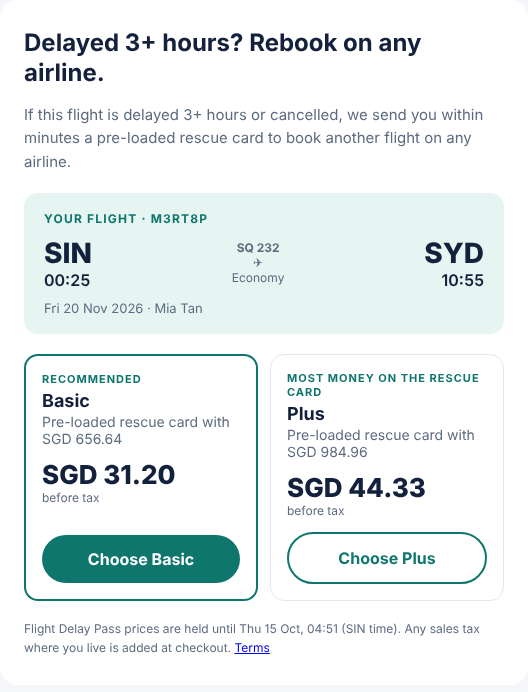
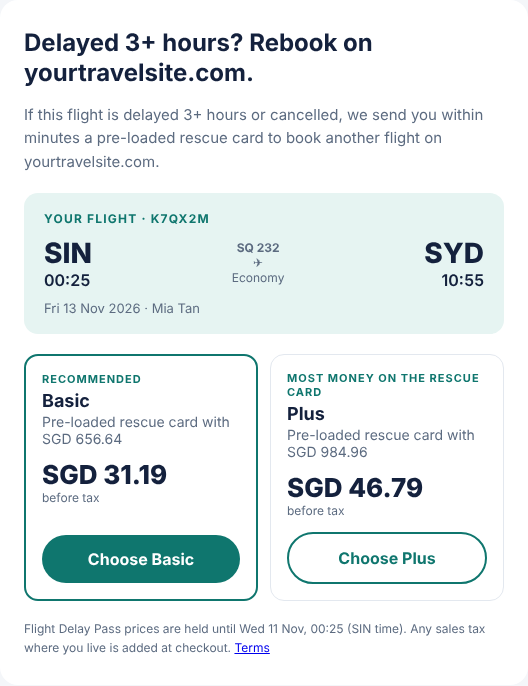
Travel site page: rescue cards work on the travel site only, and the same optional push notifications
Claude-Session: https://claude.ai/code/session_018Yozk79M8axVzfWLgUCQLn

diff --git a/travel-sites.html b/travel-sites.html
@@ -53,8 +53,8 @@
         <p class="cm-ok">✓ Booking confirmed · K7QX2M</p>
         <div class="cm-flight"><b>SIN → SYD</b><span>SQ 232 · Fri 20 Nov · 00:25 · Mia Tan</span></div>
         <div class="cm-offer">
-          <p class="cm-title">Delayed 3+ hours? Rebook on any airline.</p>
-          <p class="cm-sub">Flight Delay Pass: if this flight is delayed 3+ hours or cancelled, you get a pre-loaded rescue card within minutes.</p>
+          <p class="cm-title">Delayed 3+ hours? Rebook with us.</p>
+          <p class="cm-sub">Flight Delay Pass: if this flight is delayed 3+ hours or cancelled, you get a pre-loaded rescue card within minutes to book a new flight here.</p>
           <div class="cm-plans">
             <div class="cm-plan on"><b>Basic</b><span>Rescue card with S$657</span><i>S$31.20</i></div>
             <div class="cm-plan"><b>Plus</b><span>Rescue card with S$985</span><i>S$44.33</i></div>
@@ -109,10 +109,10 @@
       <div class="tile"><span class="time">YOUR SITE</span><h3>1. Booking confirmed</h3><p class="muted">Your confirmation page shows the Flight Delay Pass plans for the flights just booked, priced flight by flight, in your colours.</p></div>
       <div class="tile"><span class="time">YOUR SITE</span><h3>2. One tap to choose</h3><p class="muted">The customer picks Basic or Plus. Their checkout opens already filled in with the details you hold: name, date of birth, address and mobile.</p></div>
       <div class="tile"><span class="time">CHECKOUT</span><h3>3. Pass bought</h3><p class="muted">They check their details, agree to the terms and pay the Underwriter about 7.5% of the fare. You earn your share. GetThere emails the confirmation.</p></div>
-      <div class="tile"><span class="time" style="background:#b91c1c">TRAVEL DAY</span><h3>4. Delay hits</h3><p class="muted">The flight is 3+ hours late or cancelled. Within minutes the customer gets a pre-loaded rescue card, funded by the Underwriter, to book a new flight on any airline, or back on your site.</p></div>
+      <div class="tile"><span class="time" style="background:#b91c1c">TRAVEL DAY</span><h3>4. Delay hits</h3><p class="muted">The flight is 3+ hours late or cancelled. Within minutes the customer gets a pre-loaded rescue card, funded by the Underwriter, to book a new flight on your site.</p></div>
     </div>
     <div class="grid2 screens">
-      <figure class="shot"><img src="images/ota-plans.png" alt="The plans page with Basic and Plus, each with its fee and rescue card limit" loading="lazy"><figcaption><b>The plans</b> on your confirmation page, in your colours</figcaption></figure>
+      <figure class="shot"><img src="images/ota-plans.png?v=2" alt="The plans page with Basic and Plus, each with its fee and rescue card limit" loading="lazy"><figcaption><b>The plans</b> on your confirmation page, in your colours</figcaption></figure>
       <figure class="shot"><img src="images/ota-checkout-filled.png" alt="Checkout page with the customer's name, date of birth, address and WhatsApp number already filled in" loading="lazy"><figcaption><b>The checkout</b>, already filled in with what you know</figcaption></figure>
     </div>
   </div>
@@ -125,7 +125,7 @@
     <div class="grid2" style="margin-top:28px">
       <div class="tile">
         <h3>Airline rebooking</h3>
-        <p class="muted">The airline moves your customer to its own next free seat, often hours later or the next day, after a queue or a wait on the phone. With the pass, the Underwriter puts money for a new flight in their hands within minutes of a 3-hour delay, to spend on any airline.</p>
+        <p class="muted">The airline moves your customer to its own next free seat, often hours later or the next day, after a queue or a wait on the phone. With the pass, the Underwriter puts money for a new flight in their hands within minutes of a 3-hour delay, to spend on your site, on any airline you sell.</p>
       </div>
       <div class="tile">
         <h3>Claims after the trip</h3>
@@ -141,8 +141,8 @@
     <h2>11 minutes from the delay to a new booking</h2>
     <div class="phones three">
       <figure><img src="images/airport-0741.webp?v=2" alt="Lock screen at 07:41: WhatsApp message with the delay and the pre-loaded rescue card" loading="lazy"><figcaption><span class="time late">07:41</span><b>The delay hits</b>A WhatsApp message is the first thing she sees, with her pre-loaded rescue card. The same rescue card comes by email too.</figcaption></figure>
-      <figure><img src="images/airport-0744.webp" alt="Pre-loaded rescue card page with A$2,325 to spend" loading="lazy"><figcaption><span class="time">07:44</span><b>Her rescue card is ready</b>$2,325 to spend once, on flights, on any airline or travel site, including yours.</figcaption></figure>
-      <figure><img src="images/airport-0752.webp?v=3" alt="Lock screen at 07:52: email saying the new flight is booked" loading="lazy"><figcaption><span class="time">07:52</span><b>She rebooks herself</b>No waiting for the airline to re-accommodate her: she picks the flight that suits her.</figcaption></figure>
+      <figure><img src="images/airport-0744.webp" alt="Pre-loaded rescue card page with A$2,325 to spend" loading="lazy"><figcaption><span class="time">07:44</span><b>Her rescue card is ready</b>$2,325 to spend once, on flights, on your site.</figcaption></figure>
+      <figure><img src="images/airport-0752.webp?v=3" alt="Lock screen at 07:52: email saying the new flight is booked" loading="lazy"><figcaption><span class="time">07:52</span><b>She rebooks with you</b>No waiting for the airline to re-accommodate her: she picks the flight that suits her, on your site.</figcaption></figure>
     </div>
   </div>
 </section>
@@ -154,7 +154,7 @@
     <div class="grid3" style="margin-top:28px">
       <div class="tile"><h3>Revenue on every booking, at no cost</h3><p class="muted">A share of every pass, agreed with the Underwriter and paid monthly. Nothing to fund, nothing to run.</p></div>
       <div class="tile"><h3>Fewer disruption calls</h3><p class="muted">When a flight is delayed, your customer already has money to rebook, sent by WhatsApp and email within minutes. GetThere answers their questions about the pass.</p></div>
-      <div class="tile"><h3>Rebookings back on your site</h3><p class="muted">The rescue card works at any airline and travel site, so the new flight can be booked with you again.</p></div>
+      <div class="tile"><h3>Every rebooking comes back to you</h3><p class="muted">The rescue card works on your site only, so the new flight is booked with you, on any airline you sell.</p></div>
       <div class="tile"><h3>A reason to book with you</h3><p class="muted">A rescue within minutes of the delay, offered on your confirmation page and carrying your name.</p></div>
       <div class="tile"><h3>Nothing to type twice</h3><p class="muted">The checkout arrives filled in with what you already know, so buying takes a moment.</p></div>
       <div class="tile dark"><div class="big light">$7.5M</div><p>of pass fees a year if you sell $2B of flights and 5 in 100 bookings buy a pass. Your share of them is agreed with the Underwriter. <a href="#benchmark">Work out your own</a>.</p></div>
@@ -256,17 +256,21 @@
 <section id="work" class="tint">
   <div class="wrap">
     <p class="eyebrow">The work</p>
-    <h2>One offer on your confirmation page. Nothing else to run.</h2>
+    <h2>One offer on your confirmation page, three push notifications if you want them</h2>
     <div class="grid2" style="margin-top:28px">
       <div class="tile">
-        <p class="eyebrow" style="color:var(--ink)">Your site</p>
-        <h3>Show the offer</h3>
-        <p class="muted">Once a booking is confirmed, your confirmation page shows the plans for it: GetThere's ready-made plans in your colours, or your own design. What you know about the customer fills in their checkout.</p>
+        <p class="eyebrow" style="color:var(--ink)">Your site and app</p>
+        <ol class="pushes">
+          <li><b>Booking confirmed</b> Your confirmation page shows the plans: GetThere's ready-made plans in your colours, or your own design. What you know about the customer fills in their checkout.</li>
+          <li><b>Pass bought</b> <span class="opt">optional</span> A push from your app confirms the Flight Delay Pass</li>
+          <li><b>Delayed 3+ hours or cancelled</b> <span class="opt">optional</span> A push tells them their rescue card is ready</li>
+          <li><b>Rebooked</b> <span class="opt">optional</span> A push says thanks</li>
+        </ol>
       </div>
       <div class="tile">
         <p class="eyebrow">GetThere</p>
         <h3>Everything else</h3>
-        <p class="muted">Pricing, the checkout and payment flow, the pass confirmation, flight tracking, rescue card delivery and customer support. The Underwriter funds the rescue cards and pays your share monthly.</p>
+        <p class="muted">Pricing, the checkout and payment flow, the pass confirmation, flight tracking, rescue card delivery by WhatsApp and email, and customer support. Without your pushes, the customer still gets every message. The Underwriter funds the rescue cards and pays your share monthly.</p>
       </div>
     </div>
     <div class="callout dark" style="margin-top:20px">To your customer it's part of booking with you, in your name and colours: the plans, the checkout, the emails and the terms.</div>
@@ -283,7 +287,7 @@
     <p class="eyebrow">Risk, legal and privacy</p>
     <h2>Answers for your risk, legal and privacy teams</h2>
     <div class="grid2" style="margin-top:28px">
-      <div class="tile"><h3>Regulatory position</h3><p class="muted">The Flight Delay Pass is a policy, issued and underwritten by the Underwriter under its own licence. GetThere is its platform provider. If a flight is delayed 3+ hours or cancelled, the customer gets a single-use card for new flights; it buys new flights only and is never paid out as cash.</p></div>
+      <div class="tile"><h3>Regulatory position</h3><p class="muted">The Flight Delay Pass is a policy, issued and underwritten by the Underwriter under its own licence. GetThere is its platform provider. If a flight is delayed 3+ hours or cancelled, the customer gets a single-use card for new flights on your site; it buys new flights only and is never paid out as cash.</p></div>
       <div class="tile"><h3>Fraud</h3><p class="muted">Before giving a price, GetThere checks that the flight exists, the fare looks right and the traveller has no history of abuse. It checks again before sending any rescue card.</p></div>
       <div class="tile"><h3>Data</h3><p class="muted">The customer details you pass are used only to fill in the checkout, and are deleted once sales close, 48 hours before departure.</p></div>
       <div class="tile"><h3>Vendor review</h3><p class="muted">GetThere provides its security, data-handling and business-continuity pack up front. GetThere holds no card data: card details are typed into the payment form of the Underwriter's payment provider, embedded on the page.</p></div>

diff --git a/underwriters.html b/underwriters.html
@@ -243,7 +243,7 @@
     <p class="lede">GetThere builds and runs the offer pages, quote emails, checkout, terms and rescue cards for every partner.</p>
     <div class="grid2" style="margin-top:28px">
       <div class="callout dark"><b>Card Issuers</b> send one push notification after an airline charge on their card. Three more pushes and a yes-or-no purchase check are optional. <a href="issuers.html" style="color:#5eead4">Card Issuer page</a></div>
-      <div class="callout dark"><b>Online Travel Agencies</b> show the offer on their booking confirmation page, and the customer's checkout opens already filled in. <a href="travel-sites.html" style="color:#5eead4">Online Travel Agency page</a></div>
+      <div class="callout dark"><b>Online Travel Agencies</b> show the offer on their booking confirmation page, and the customer's checkout opens already filled in. The same three pushes are optional, and their rescue cards work on their own site only. <a href="travel-sites.html" style="color:#5eead4">Online Travel Agency page</a></div>
     </div>
     <p class="muted" style="margin-top:12px">Both integrations are in the <a href="api.html">API reference</a>.</p>
     <div class="grid2" style="margin-top:20px">
